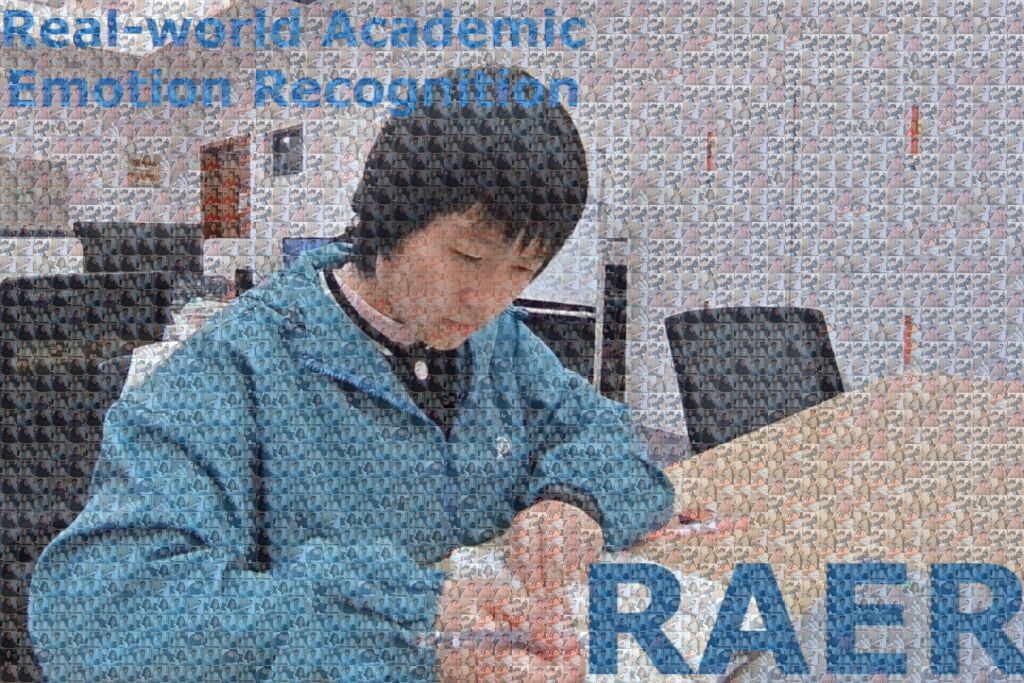
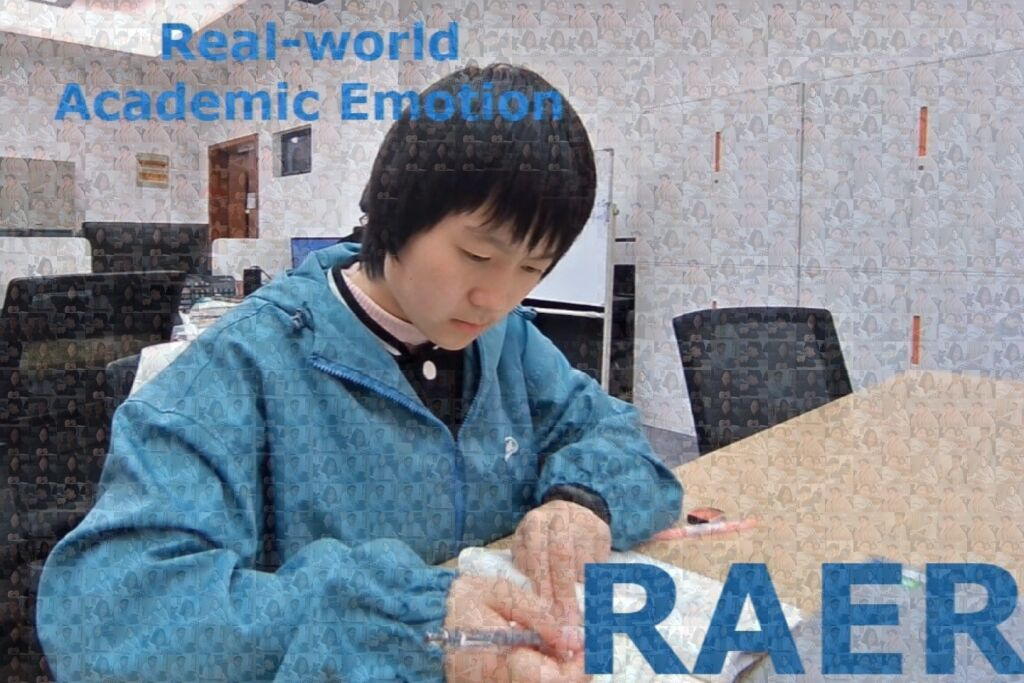
update

diff --git a/docs/index.html b/docs/index.html
@@ -23,7 +23,7 @@
         .cover-link { font-size: 1.6em; font-weight: bold; color: #6a0dad; text-decoration: underline; transition: transform 0.2s ease; cursor: pointer; }
         .cover-link:hover { transform: scale(1.1); }
         .cover-image-area { flex-grow: 1; width: 100%; overflow: hidden; display: flex; justify-content: center; align-items: center; background-color: #ffffff; }
-        .cover-image-area img { max-width: 98%; max-height: 98%; object-fit: contain; }
+        .cover-image-area img { max-width: 99%; max-height: 99%; object-fit: contain; }
 
         /* 3. 主要内容部分 */
         .main-content { background-color: #f9f9f9; padding: 60px 20px; }
@@ -53,7 +53,7 @@
             font-size: 1.1em; text-transform: capitalize; background: transparent;
         }
         .grid-cell {
-            background: white; border-radius: 8px; box-shadow: 0 4px 15px rgba(0,0,0,0.07);
+            background: white; border-radius: 4px; box-shadow: 0 4px 15px rgba(0,0,0,0.07);
             transition: all 0.3s ease; overflow: hidden; aspect-ratio: 1 / 1; padding: 0;
         }
         .grid-cell:hover { transform: translateY(-5px) scale(1.03); box-shadow: 0 8px 25px rgba(0,0,0,0.1); }
@@ -151,7 +151,7 @@
             <a href="#main-content" id="scroll-link" class="cover-link">RAER</a>
         </div>
         <div class="cover-image-area">
-            <img src="static/index1.jpg" alt="RAER">
+            <img src="static/index.jpg" alt="RAER">
         </div>
     </header>
 
